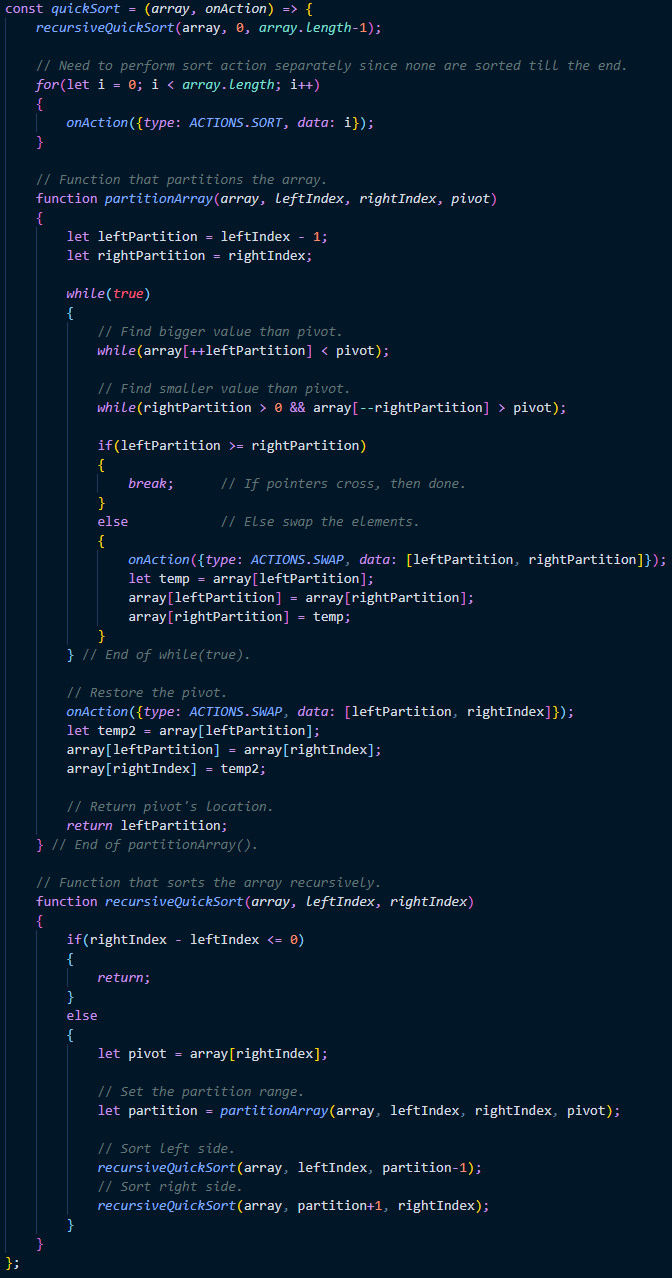
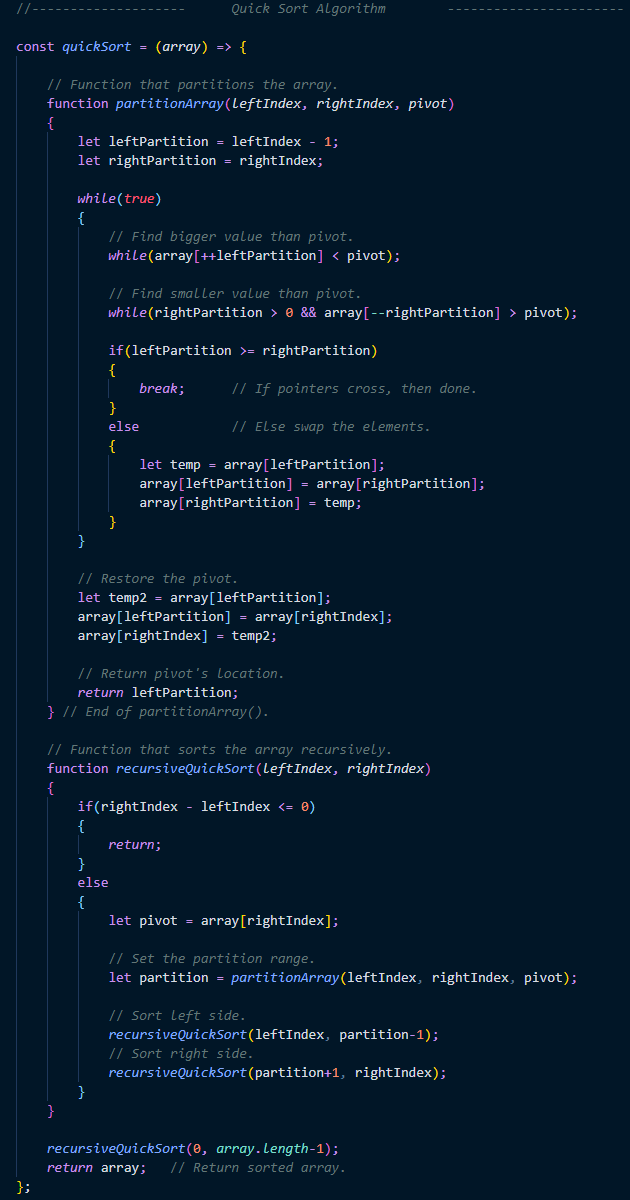
Cleaned up code and optimized images
Eliminated code that was redundant and optimized images for faster load times.

diff --git a/sortAnimations.js b/sortAnimations.js
@@ -130,12 +130,18 @@ const selectionSort = (array, onAction) => {
             }
         }
 
-        let temp = array[outer];
-        array[outer] = array[smallest];
-        array[smallest] = temp;
-        onAction({type: ACTIONS.SWAP, data: [outer, smallest]});
+        if(smallest != outer)
+        {
+            let temp = array[outer];
+            array[outer] = array[smallest];
+            array[smallest] = temp;
+            onAction({type: ACTIONS.SWAP, data: [outer, smallest]});
+        }
+
         onAction({type: ACTIONS.SORT, data: outer});
     }
+
+    return array;
 };
 
 
@@ -167,6 +173,8 @@ const insertionSort = (array, onAction) => {
     {
         onAction({type: ACTIONS.SORT, data: i});
     }
+
+    return array;
 };
 
 
@@ -242,7 +250,7 @@ const mergeSort = (array, onAction) => {
 //--------------------      Quick Sort Algorithm        -----------------------
 
 const quickSort = (array, onAction) => {
-    recursiveQuickSort(array, 0, array.length-1);
+    recursiveQuickSort(0, array.length-1);
 
     // Need to perform sort action separately since none are sorted till the end.
     for(let i = 0; i < array.length; i++)
@@ -251,7 +259,7 @@ const quickSort = (array, onAction) => {
     }
 
     // Function that partitions the array.
-    function partitionArray(array, leftIndex, rightIndex, pivot)
+    function partitionArray(leftIndex, rightIndex, pivot)
     {
         let leftPartition = leftIndex - 1;
         let rightPartition = rightIndex;
@@ -288,7 +296,7 @@ const quickSort = (array, onAction) => {
     } // End of partitionArray().
 
     // Function that sorts the array recursively.
-    function recursiveQuickSort(array, leftIndex, rightIndex)
+    function recursiveQuickSort(leftIndex, rightIndex)
     {
         if(rightIndex - leftIndex <= 0)
         {
@@ -299,14 +307,16 @@ const quickSort = (array, onAction) => {
             let pivot = array[rightIndex];
 
             // Set the partition range.
-            let partition = partitionArray(array, leftIndex, rightIndex, pivot);
+            let partition = partitionArray(leftIndex, rightIndex, pivot);
 
             // Sort left side.
-            recursiveQuickSort(array, leftIndex, partition-1);
+            recursiveQuickSort(leftIndex, partition-1);
             // Sort right side.
-            recursiveQuickSort(array, partition+1, rightIndex);
+            recursiveQuickSort(partition+1, rightIndex);
         }
     }
+
+    return array;
 };
 
 
@@ -414,3 +424,8 @@ document.getElementById("quickSort").onclick = function() {
         });
     }
 }
+
+let testArray = [1,2,4,3,5,7,6];
+
+let result = quickSort(testArray);
+console.log(result);

diff --git a/css/style.css b/css/style.css
@@ -13,12 +13,17 @@ body {
     margin: 0;
 }
 
-
-/*---------------       Navigation Styles       -------------------*/
-
 header {
     background-color: #EEEEEE;
 }
+
+main {
+    max-width: 1800px;
+    margin: 0 auto;
+}
+
+
+/*---------------       Navigation Styles       -------------------*/
 
 nav {
     height: 10rem;
@@ -47,11 +52,6 @@ h1 {
 
 
 /*---------------------     Main Styles     -----------------------*/
-
-main {
-    max-width: 1800px;
-    margin: 0 auto;
-}
 
 .sortSelection {
     height: 3rem;

diff --git a/sortAlgorithms.html b/sortAlgorithms.html
@@ -116,5 +116,6 @@
         </div>
     </main>
     <!---------------------     End of Main Section     ---------------------->
+    <script src="algos.js"></script>
 </body>
 </html>
